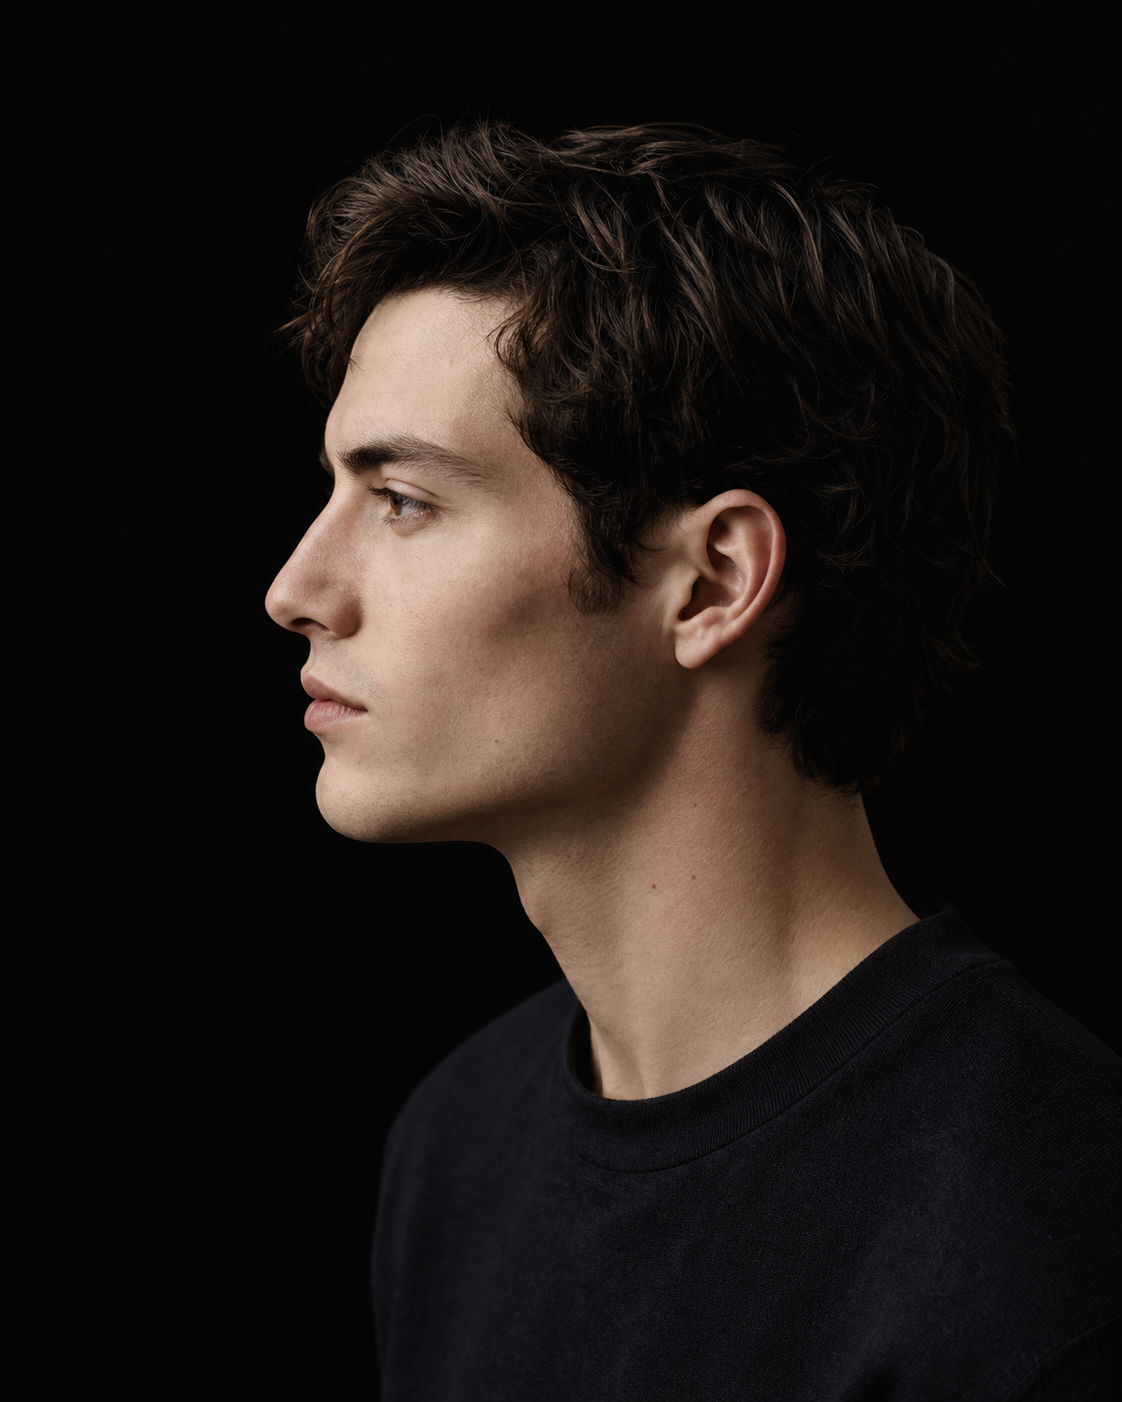
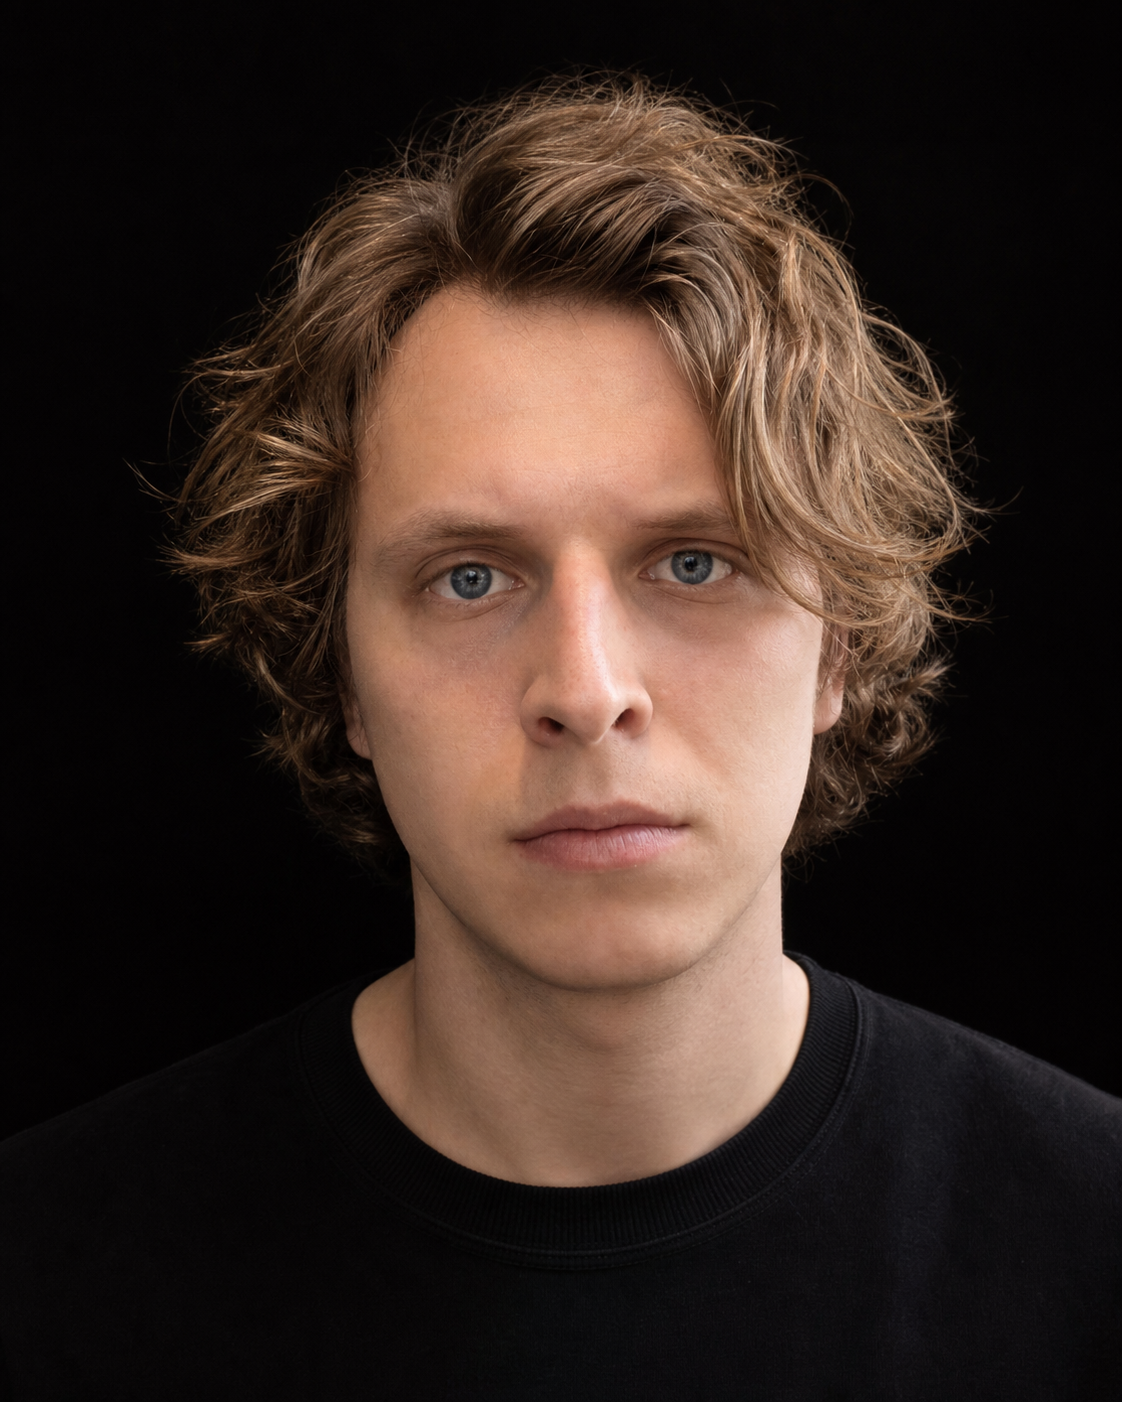
Replace mobile about portrait

diff --git a/src/components/App/research/Content.tsx b/src/components/App/research/Content.tsx
@@ -19,7 +19,7 @@ export default function Content({data}: {data: string}) {
           <div className="relative aspect-[4/5] w-full overflow-hidden">
             <Image
               src="/about/about-profile-placeholder.png"
-              alt="Временный портрет для страницы обо мне"
+              alt="Портрет Артема Темнова"
               fill
               priority
               sizes="(max-width: 500px) calc(100vw - 44px), 1px"